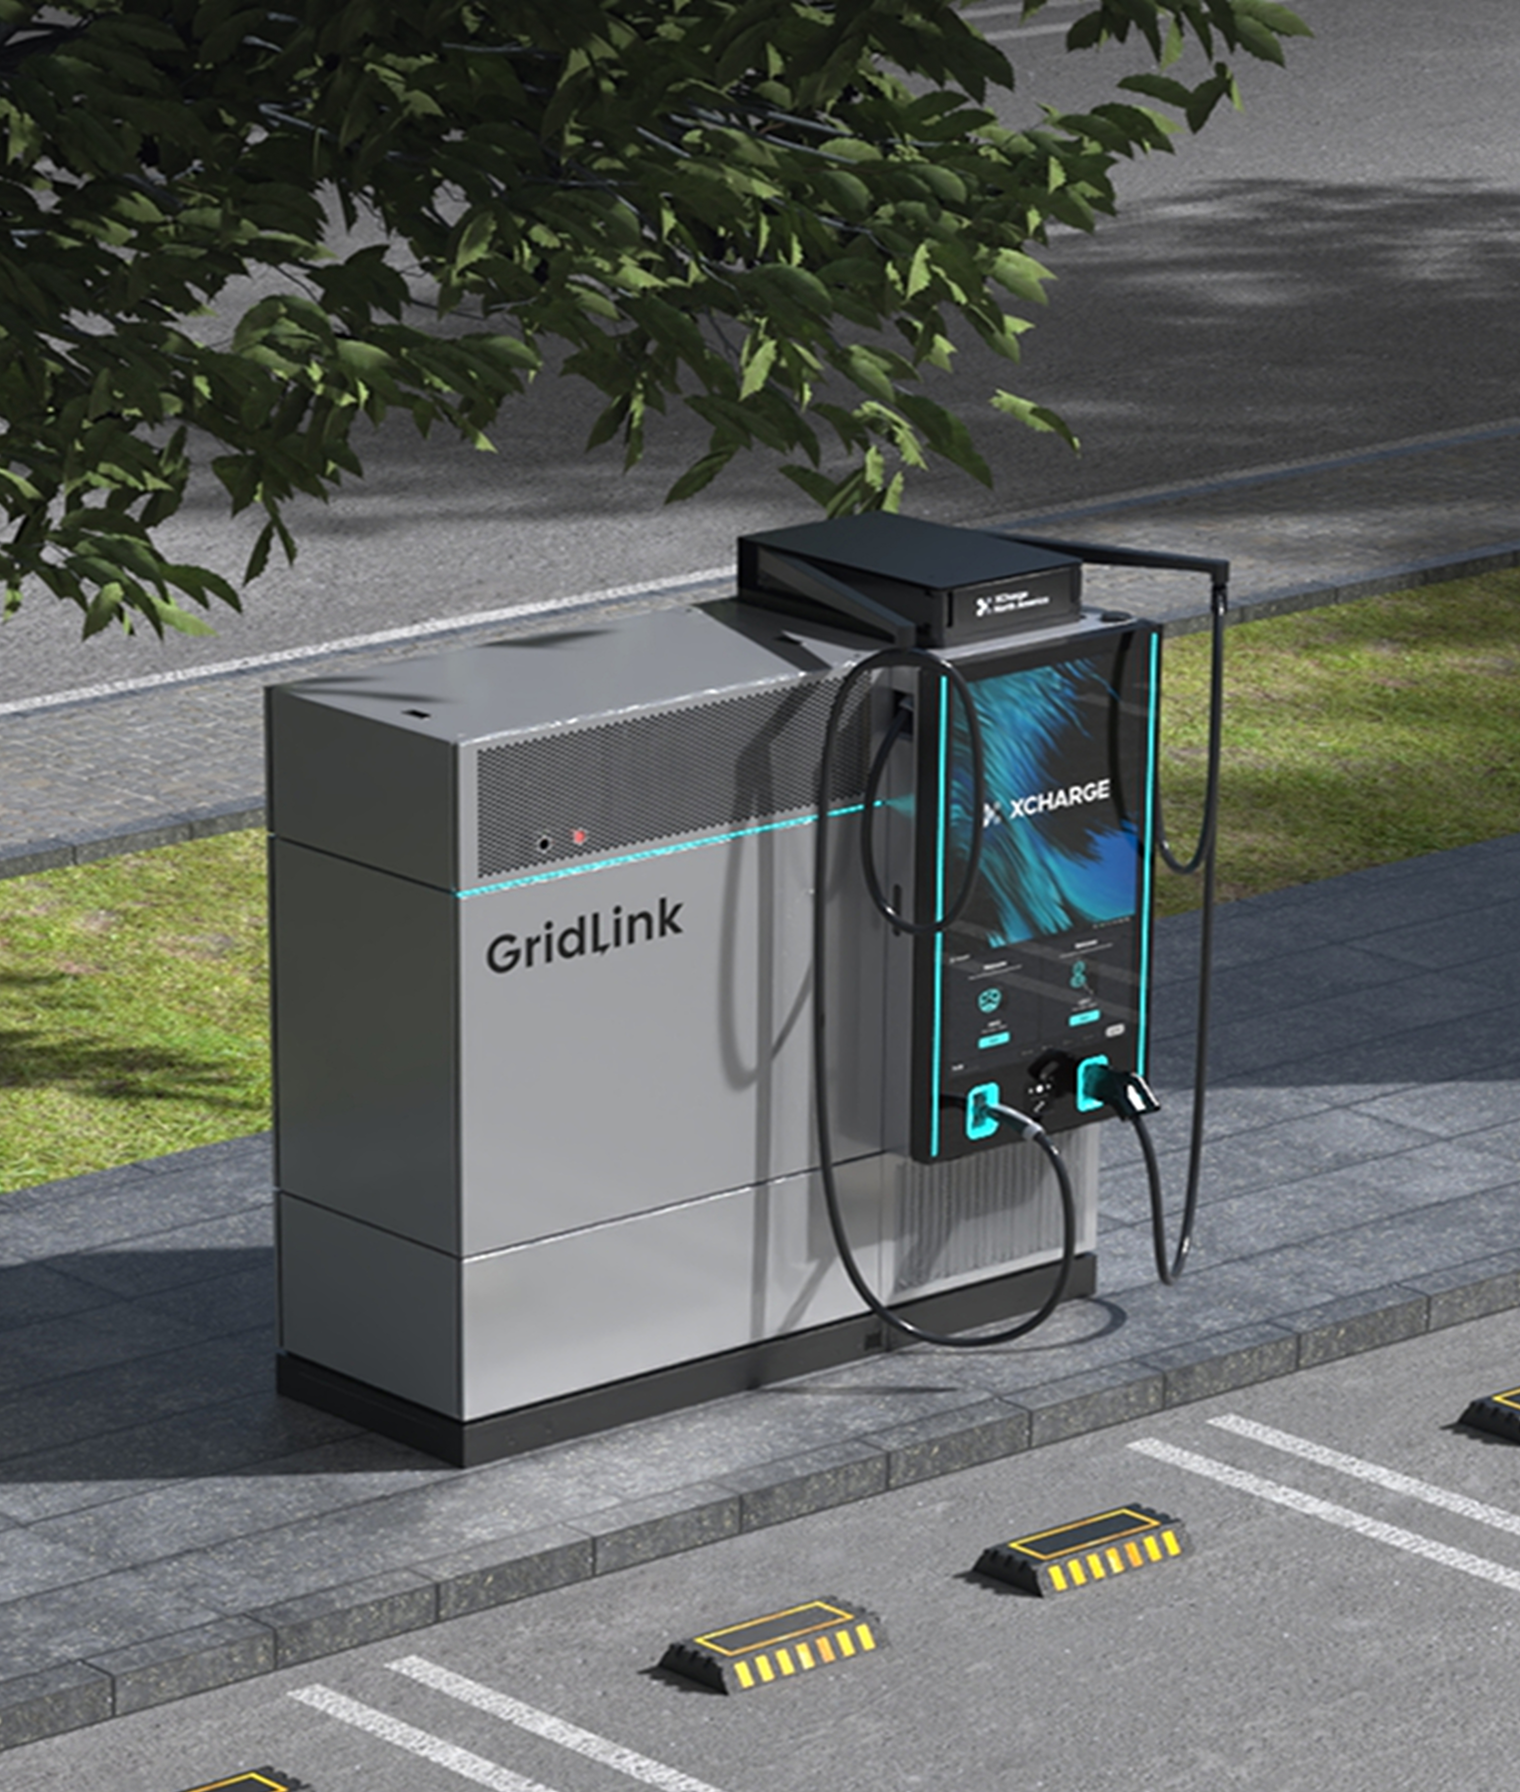
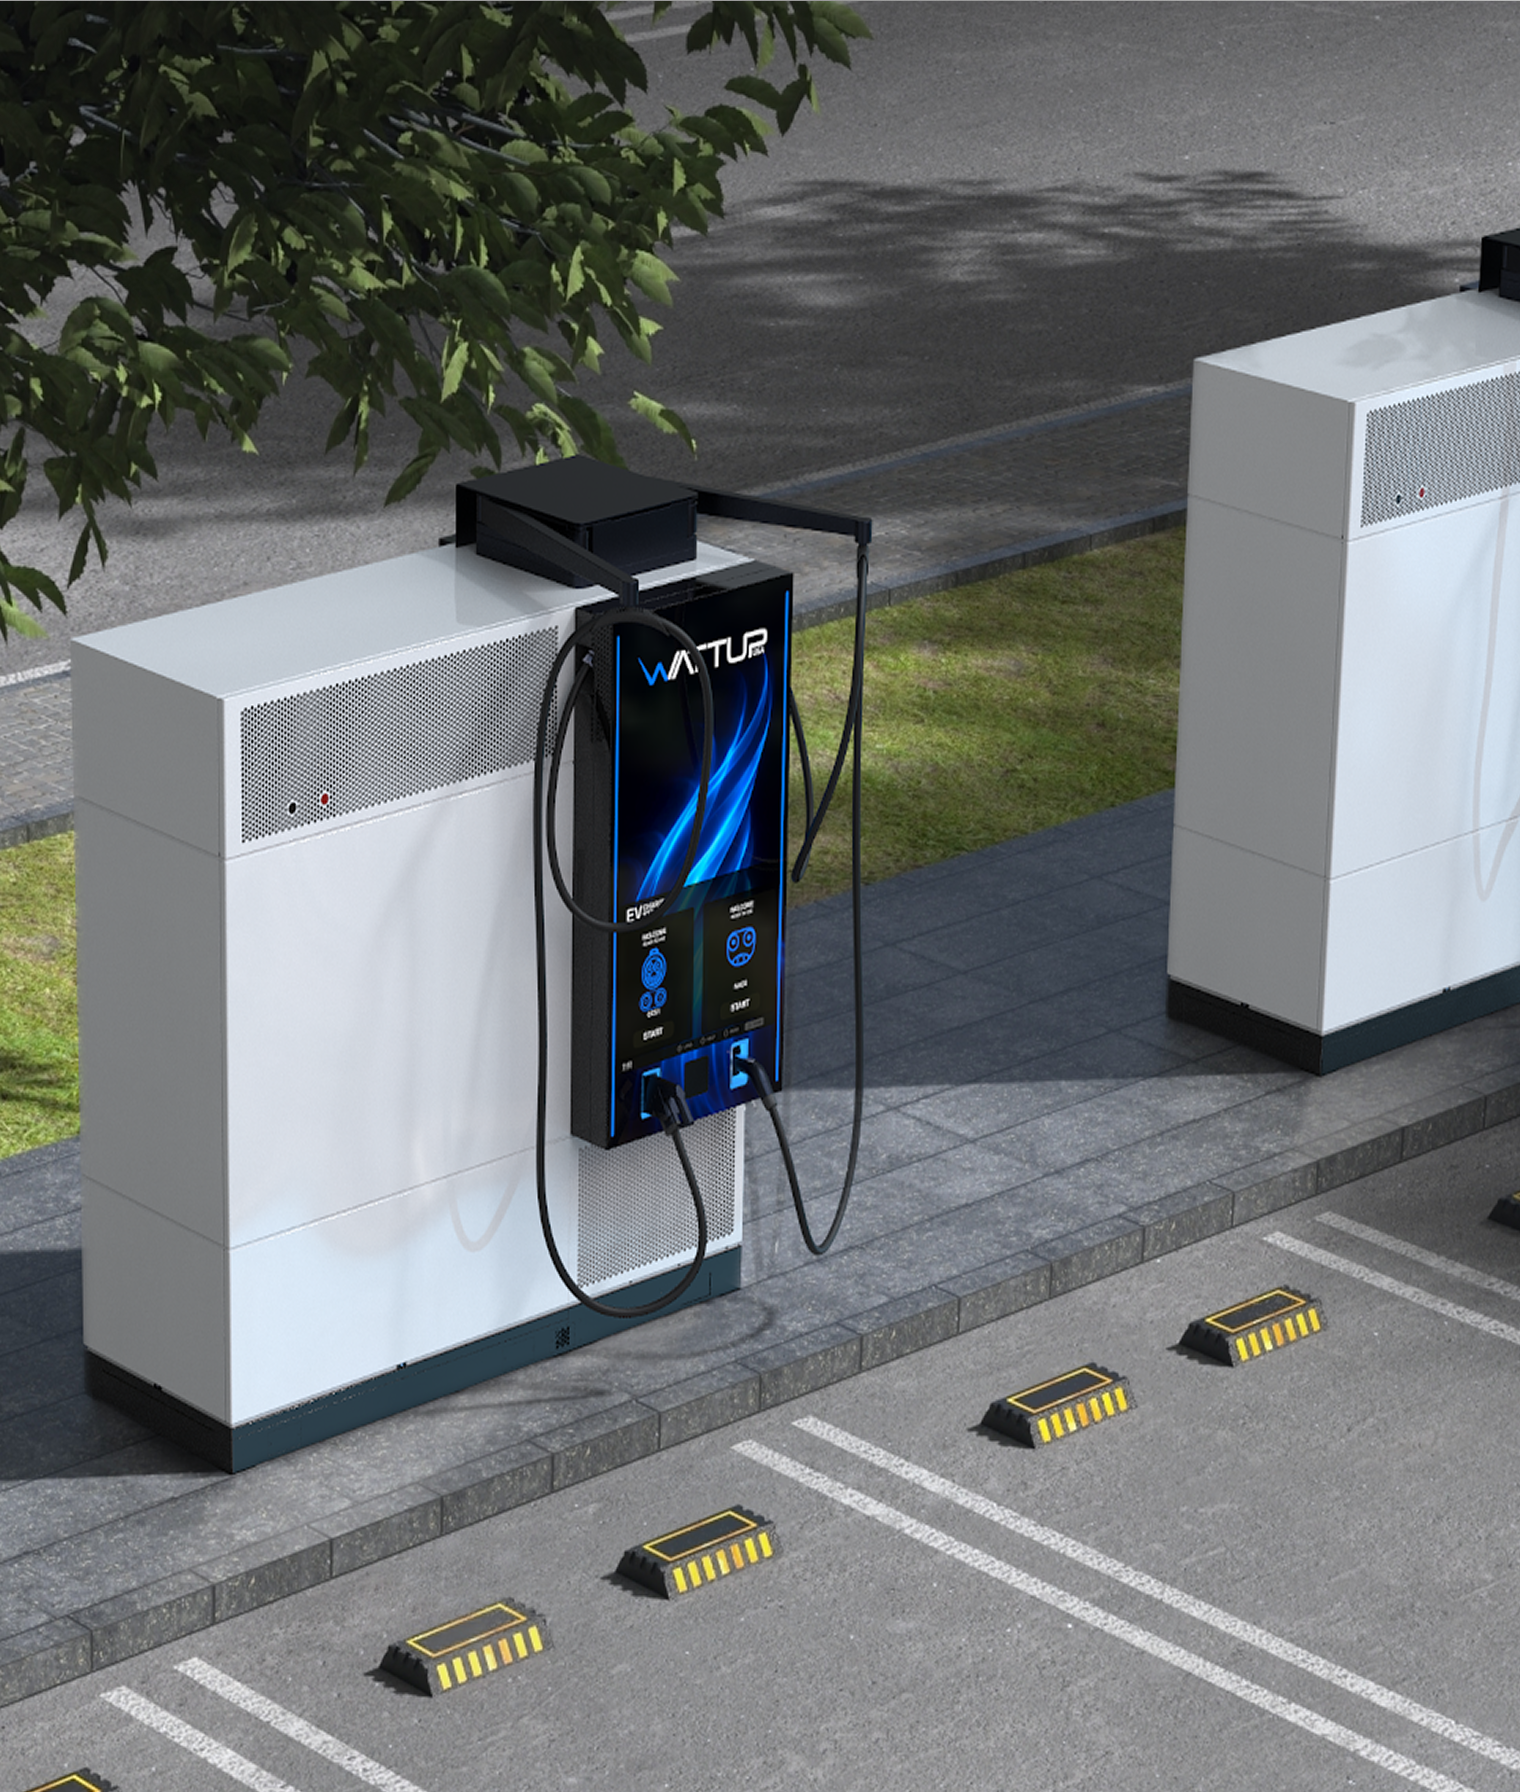
refactor: update privacy page assets and wrap layout in FadeUp animation component

diff --git a/components/privacy/privacy-options.tsx b/components/privacy/privacy-options.tsx
@@ -46,52 +46,52 @@ export function PrivacyOptions() {
     }));
 
     return (
-        <section className='w-full common-section-padding bg-white overflow-hidden'>
-            <div className='container'>
-               
+        <FadeUp>
+            <section className='w-full common-section-padding bg-white overflow-hidden'>
+                <div className='container'>
                     <h2 className='headline-dark mb-6'>Policy:</h2>
-               
-                <FadeUp>
-                    <p className='text-description max-w-[842px] mb-4 font-normal! '>
-                        This website is operated by WattUp USA. By accessing and
-                        using this website, you agree to comply with and be
-                        bound by the following legal terms and privacy
-                        practices.
-                    </p>
-                </FadeUp>
-                <FadeUp delay={0.4}>
-                    <Link
-                        href={'#'}
-                        className='text-primary text-[16px] font-semibold py-[10px] mb-10! block'>
-                        Read Privacy Notice
-                    </Link>
-                </FadeUp>
 
-                {/* Desktop Grid View */}
-                <div className='hidden md:grid grid-cols-3 gap-5'>
-                    {PolicyOptionsData.map((step, index) => (
-                        <FadeUp key={index} delay={index * 0.2}>
-                            <StepCard step={step} isMobileSlider={false} />
-                        </FadeUp>
-                    ))}
-                </div>
-
-                {/* Mobile Slider View */}
-                <div className='block md:hidden'>
-                    <FadeUp>
-                        <CardSlider
-                            slides={mobileSlides}
-                            mobilePerView={1} // ~90% width to show a peek of the next card
-                            gap={20}
-                            showArrows={false}
-                            showDots={true}
-                            loop={false}
-                        />
+                    <FadeUp delay={0.2}>
+                        <p className='text-description max-w-[842px] mb-4 font-normal! '>
+                            This website is operated by WattUp USA. By accessing
+                            and using this website, you agree to comply with and
+                            be bound by the following legal terms and privacy
+                            practices.
+                        </p>
                     </FadeUp>
+                    <FadeUp delay={0.4}>
+                        <Link
+                            href={'#'}
+                            className='text-primary text-[16px] font-semibold py-[10px] mb-10! block'>
+                            Read Privacy Notice
+                        </Link>
+                    </FadeUp>
+
+                    {/* Desktop Grid View */}
+                    <div className='hidden md:grid grid-cols-3 gap-5'>
+                        {PolicyOptionsData.map((step, index) => (
+                            <FadeUp key={index} delay={index * 0.2}>
+                                <StepCard step={step} isMobileSlider={false} />
+                            </FadeUp>
+                        ))}
+                    </div>
+
+                    {/* Mobile Slider View */}
+                    <div className='block md:hidden'>
+                        <FadeUp>
+                            <CardSlider
+                                slides={mobileSlides}
+                                mobilePerView={1} // ~90% width to show a peek of the next card
+                                gap={20}
+                                showArrows={false}
+                                showDots={true}
+                                loop={false}
+                            />
+                        </FadeUp>
+                    </div>
                 </div>
-            </div>
-        </section>
+            </section>
+        </FadeUp>
     );
 }
-
 

diff --git a/lib/images/policy.ts b/lib/images/policy.ts
@@ -1,17 +1,21 @@
 import { cloudinaryUrl } from './home';
 
 export const policyImages = {
-    ogImage: 'og-image_y4qcpx',
+    ogImage: 'og-image_lftfqi',
     policy1: 'policy-1_ej1afs',
     policy2: 'policy-2_bev815',
-    policy3: 'policy-3_dcgkfn',
-    policyPageHero: 'policy-page-hero_n7cifx',
-    policyPageHeroMobile: 'policy-page-hero-mobile_isyuhk',
+    policy3: 'policy-3_wzhipa',
+    policyPageHero: 'policy-page-hero_bjlndn',
+    policyPageHeroMobile: 'policy-page-hero-mobile_jhpaaw',
 };
 
 export const policyImageUrls = Object.fromEntries(
     Object.entries(policyImages).map(([key, id]) => [key, cloudinaryUrl(id)])
 ) as Record<keyof typeof policyImages, string>;
+
+
+
+
 
 
 